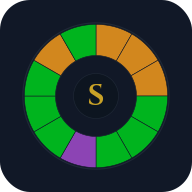
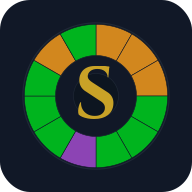
Icono: S más grande (195px) e itálica
CACHE: temp-13d72f6

Changed region(s): [[0.4062, 0.3438, 0.5938, 0.625]]

diff --git a/docs/index.html b/docs/index.html
@@ -435,7 +435,7 @@
 </div>
 
 <script>
-const APP_VERSION = '1bc07e5 · 2026-04-05';// ── Service Worker ──
+const APP_VERSION = '13d72f6 · 2026-04-05';// ── Service Worker ──
 if ('serviceWorker' in navigator) {
   let reloading = false;
   navigator.serviceWorker.addEventListener('controllerchange', () => {

diff --git a/docs/sw.js b/docs/sw.js
@@ -1,4 +1,4 @@
-const CACHE = 'temp-1bc07e5';const STATIC = [
+const CACHE = 'temp-13d72f6';const STATIC = [
   './icon-192.png',
   './icon-512.png',
   'https://cdn.jsdelivr.net/npm/chart.js@4.4.0/dist/chart.umd.min.js'
